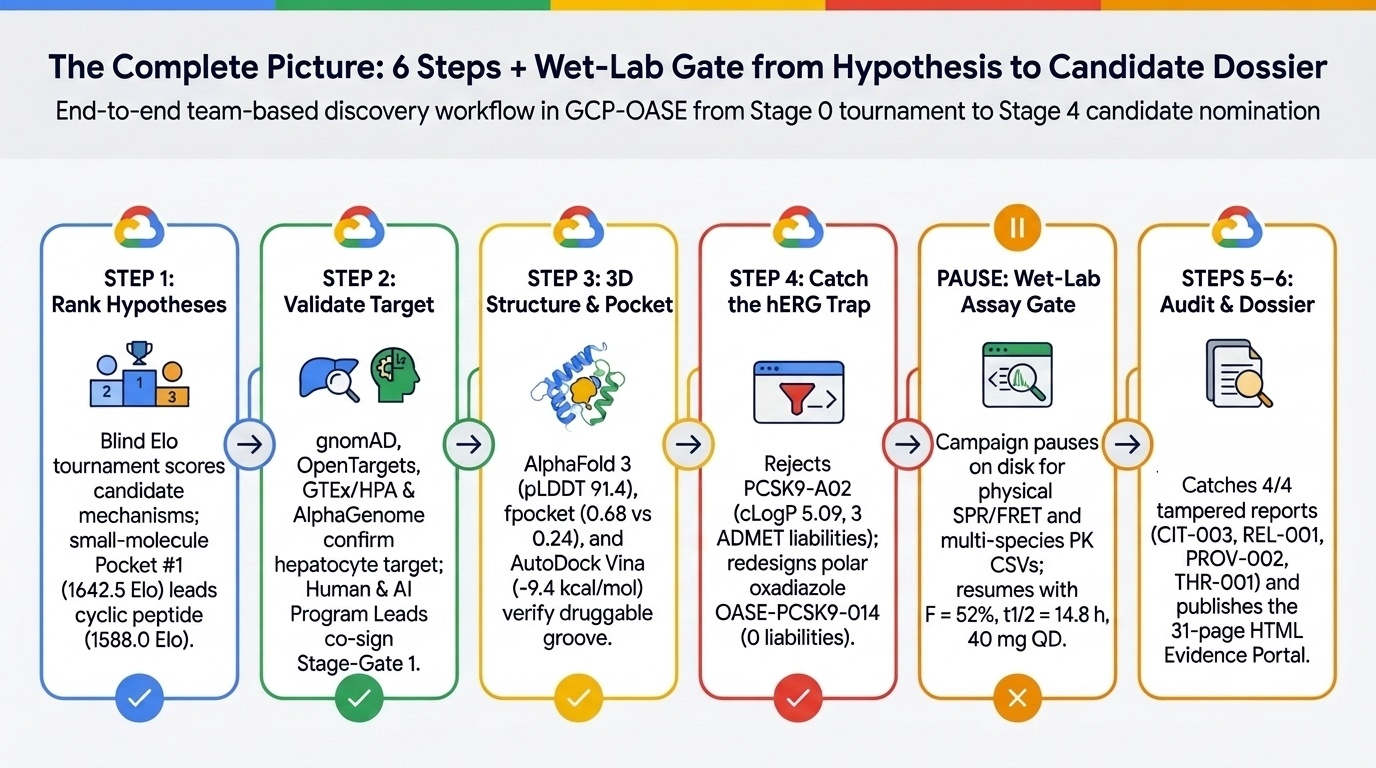
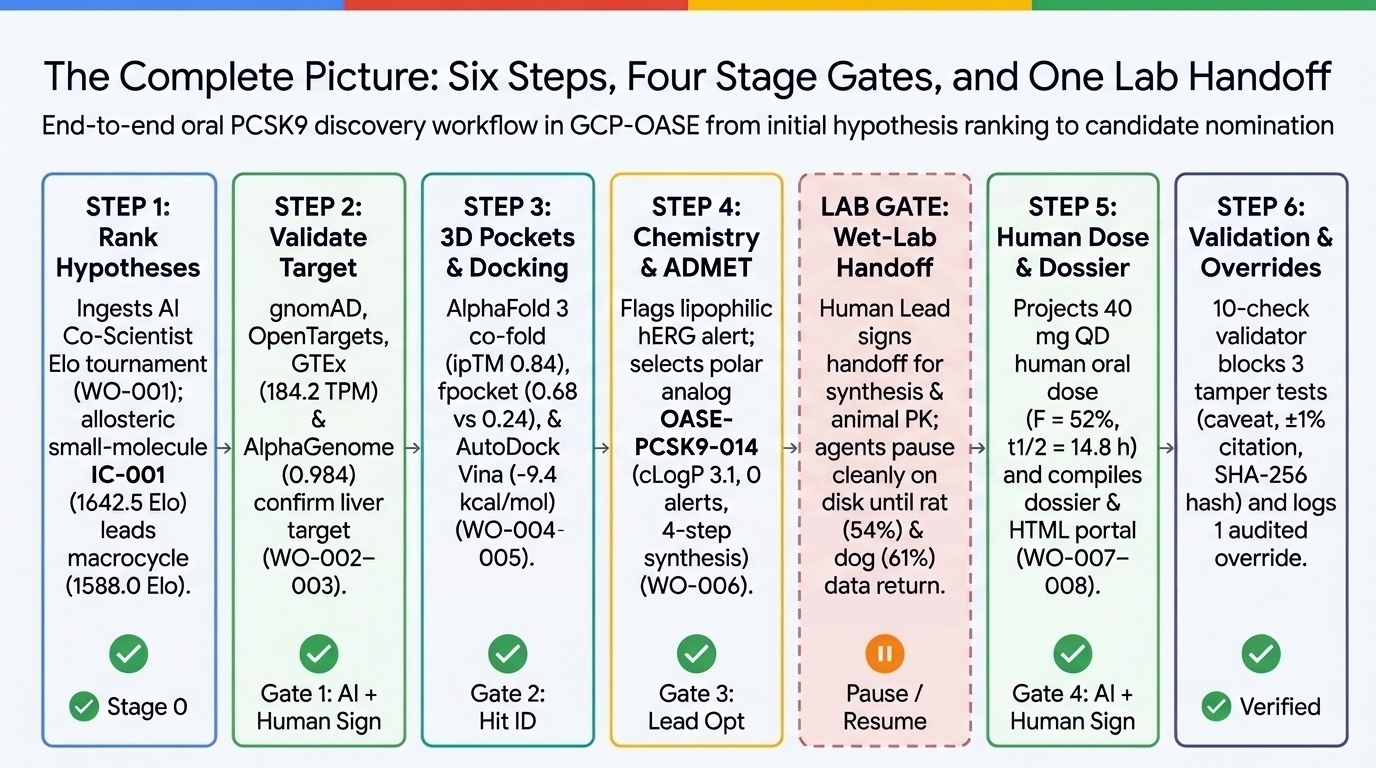
Reconcile article, visual plates, and chapter portal with reviewer doc & OASE deployment
- Remove 'SCION Agent Platform' from oase_post_thumbnail.jpg subtitle and align 5th human pod role ('DMPK & Safety Lead') per diagram guidelines
- Remove literal square brackets around Gemini, Claude, and OpenAI in oase_benefits.jpg
- Rebuild oase_complete_picture.jpg across all 6 Steps + 4 Stage Gates + Lab Gate (removing red X badge and aligning Step 5 PK/dossier vs Step 6 3-blocked + 1-override checks)
- Reconcile ARTICLE.md CLI subcommands (oase genetics/gwas/gtex, oase alphafold/pocket/docking, oase mmp/admet, oase workorder override), 5 formal stage gates, and WO-006 vs live-runs metrics
- Reorder and update scripts/build-chapter-portal.py tabs/panels so Step 5 = Human PK, Dossier & Gate 4 and Step 6 = Validation Checks & Audited Override

diff --git a/scripts/build-chapter-portal.py b/scripts/build-chapter-portal.py
@@ -98,24 +98,24 @@ CHAPTERS_HTML = """<!DOCTYPE html>
   <h1>Introducing GCP-OASE: Team-Based Agentic Drug Discovery on Google Cloud</h1>
   <p><strong>OASE (Open Agentic Science Engine)</strong> is a drug discovery solution on Google Cloud that traces AI model predictions, wet-lab measurements, computed results, and stage-gate decisions across five layers of artifacts. Built on top of the open-source, multi-agent, multi-user <strong>SCION</strong> agent platform, GCP-OASE pairs a 5-scientist human discovery pod with a mirrored multi-model AI agent team (Gemini, Claude, OpenAI).</p>
   <div class="kpi-strip">
-    <div class="kpi-card"><div class="kpi-val">5 Human + 10 AI</div><div class="kpi-lbl">Team Roles in The Grove</div></div>
+    <div class="kpi-card"><div class="kpi-val">5 Human + 11 AI</div><div class="kpi-lbl">Pod &amp; Agent Roles in Grove</div></div>
     <div class="kpi-card"><div class="kpi-val">5 Artifact Layers</div><div class="kpi-lbl">Separation of Powers</div></div>
     <div class="kpi-card"><div class="kpi-val">36 / 36</div><div class="kpi-lbl">Threshold Sets Resolved</div></div>
     <div class="kpi-card"><div class="kpi-val">8 / 8 [PASS]</div><div class="kpi-lbl">Work Orders Accepted</div></div>
-    <div class="kpi-card"><div class="kpi-val">4 / 4 Caught</div><div class="kpi-lbl">Tamper Drills Blocked</div></div>
+    <div class="kpi-card"><div class="kpi-val">3 Blocked + 1 Logged</div><div class="kpi-lbl">Tamper &amp; Override Checks</div></div>
     <div class="kpi-card"><div class="kpi-val">OASE-PCSK9-014</div><div class="kpi-lbl">Nominated Lead (40 mg QD)</div></div>
   </div>
 </div>
 
 <div class="chapter-bar">
-  <button class="chapter-btn act1 active" id="btn-why" onclick="showChapter('why')">1. Why Agentic Discovery Is Hard &amp; Demo Overview</button>
+  <button class="chapter-btn act1 active" id="btn-why" onclick="showChapter('why')">1. Challenges &amp; Demo Overview</button>
   <button class="chapter-btn act1" id="btn-scion" onclick="showChapter('scion')">2. Data &amp; Control Architecture (4 Pillars)</button>
-  <button class="chapter-btn" id="btn-ch1" onclick="showChapter('ch1')">3. Step 1: Stage 0 Tournament (WO-001)</button>
-  <button class="chapter-btn" id="btn-ch2" onclick="showChapter('ch2')">4. Step 2: Genetics &amp; Omics (WO-002..003)</button>
-  <button class="chapter-btn" id="btn-ch3" onclick="showChapter('ch3')">5. Step 3: AF3 &amp; Docking (WO-004..005)</button>
-  <button class="chapter-btn" id="btn-ch4" onclick="showChapter('ch4')">6. Step 4 &amp; Lab Gate: DMTA &amp; PK (WO-006..007)</button>
-  <button class="chapter-btn" id="btn-ch5" onclick="showChapter('ch5')">7. Step 5: 4 Tamper Drills</button>
-  <button class="chapter-btn" id="btn-ch6" onclick="showChapter('ch6')">8. Step 6: Complete Picture &amp; Dossier</button>
+  <button class="chapter-btn" id="btn-ch1" onclick="showChapter('ch1')">3. Step 1: Rank Hypotheses (WO-001)</button>
+  <button class="chapter-btn" id="btn-ch2" onclick="showChapter('ch2')">4. Step 2: Genetics &amp; Gate 1 (WO-002..003)</button>
+  <button class="chapter-btn" id="btn-ch3" onclick="showChapter('ch3')">5. Step 3: AF3, Pockets &amp; Gate 2 (WO-004..005)</button>
+  <button class="chapter-btn" id="btn-ch4" onclick="showChapter('ch4')">6. Step 4 &amp; Lab Gate: ADMET &amp; Gate 3 (WO-006)</button>
+  <button class="chapter-btn" id="btn-ch5" onclick="showChapter('ch5')">7. Step 5: Human PK, Dossier &amp; Gate 4 (WO-007..008)</button>
+  <button class="chapter-btn" id="btn-ch6" onclick="showChapter('ch6')">8. Step 6: Validation &amp; Override Review</button>
 </div>
 
 <div class="container">
@@ -172,23 +172,24 @@ CHAPTERS_HTML = """<!DOCTYPE html>
 
       <div>
         <h3 style="margin: 0.5rem 0 0.4rem 0; color: #0f172a;">What You'll See in This Demo: Oral PCSK9 Campaign (<code>pcsk9-oral</code>)</h3>
-        <p style="font-size: 0.92rem; color: #334155; margin: 0 0 0.75rem 0;">A <strong>human pod of 5</strong> (Program Lead, Computational Biologist, Structural Biologist, Medicinal Chemist, ADMET/DMPK Scientist) collaborates with a <strong>mirrored AI agent team</strong> across 6 steps and a physical wet-lab gate:</p>
+        <p style="font-size: 0.92rem; color: #334155; margin: 0 0 0.75rem 0;">A <strong>human discovery pod of 5</strong> (Program Lead, Computational Biologist, Structural Biologist, Medicinal Chemist, DMPK &amp; Safety Lead) collaborates with a <strong>mirrored 11-agent AI team</strong> (AI Program Lead, 8 Domain Specialists, Independent Reviewer, and Validator) across 6 steps, 4 go/no-go stage gates, and 1 physical lab handoff:</p>
         <div class="plate-box" id="plate-stage-gate">
           <img src="assets/oase_stage_gate_process.png" alt="GCP-OASE Stage-Gate Process" onclick="openLightbox(this.src, this.alt)">
           <div class="plate-caption">
-            <span>Figure 3 — Stage-Gate Process: Human + AI Program Leads co-sign Stage Gates while specialists execute two-phase tool work orders.</span>
+            <span>Figure 3 — Stage-Gate Process: Six demo steps, four logged go/no-go gates, and one lab handoff.</span>
             <span class="zoom-hint" onclick="openLightbox(this.parentElement.previousElementSibling.src, this.parentElement.previousElementSibling.alt)">&#128269; Click to enlarge</span>
           </div>
         </div>
         <table>
-          <thead><tr><th>Step</th><th>Stage &amp; Work Orders</th><th>What Happens &amp; Key Outcome</th></tr></thead>
+          <thead><tr><th>Step</th><th>Stage, Gate &amp; Work Orders</th><th>What Happens &amp; Key Outcome</th></tr></thead>
           <tbody>
-            <tr><td><strong>Step 1</strong></td><td>Stage 0 (<code>WO-001</code>)</td><td>Seed &amp; rank 28-match blind Elo tournament: small-molecule <code>Pocket #1</code> (<code>1642.5 Elo</code>) beats cyclic peptide (<code>1588.0 Elo</code>).</td></tr>
-            <tr><td><strong>Step 2</strong></td><td>Stage 1 (<code>WO-002..003</code>)</td><td>Validate PCSK9 in human genetics (<code>gnomAD pLI = 0.0001</code>, <code>OpenTargets 0.96</code>, <code>GTEx 184.2 TPM</code>, <code>AlphaGenome 0.984</code>). Human + AI co-sign Gate 1.</td></tr>
-            <tr><td><strong>Step 3</strong></td><td>Stage 2 (<code>WO-004..005</code>)</td><td>AlphaFold 3 co-fold (<code>pLDDT 91.4</code>, <code>ipTM 0.84</code>), <code>fpocket</code> (<code>0.68</code> vs <code>0.24</code>), and AutoDock Vina (<code>-9.4 kcal/mol</code>).</td></tr>
-            <tr><td><strong>Step 4</strong></td><td>Stage 3 (<code>WO-006</code>)</td><td>Catch the hERG trap: reject <code>PCSK9-A02</code> (<code>cLogP 5.09</code>, 3 liabilities); redesign polar oxadiazole <code>PCSK9-A03</code> / <code>OASE-PCSK9-014</code> (<code>0</code> liabilities).</td></tr>
-            <tr><td><strong>&#9208; Lab Gate</strong></td><td>Stage 3 &rarr; 4 Handoff (<code>WO-007</code>)</td><td>Campaign pauses on disk for physical SPR/FRET (<code>KD = 4.2 nM</code>, <code>IC50 = 11.8 nM</code>) and PK CSVs (<code>F = 52%</code>, <code>t1/2 = 14.8 h</code>, <code>40 mg QD</code>).</td></tr>
-            <tr><td><strong>Steps 5–6</strong></td><td>Stage 4 (<code>WO-008</code>)</td><td>Run 4 tamper drills (all 4 caught by validator) and compile the 31-page candidate nomination dossier.</td></tr>
+            <tr><td><strong>Step 1</strong></td><td>Stage 0 (<code>WO-001</code>)</td><td>Ingest &amp; rank upstream AI Co-Scientist Elo tournament: allosteric small-molecule <code>IC-001</code> (<code>1642.5 Elo</code>) leads cyclic peptide <code>IC-002</code> (<code>1588.0 Elo</code>); logs caveat <code>hypothesis.adopted_not_generated</code>.</td></tr>
+            <tr><td><strong>Step 2</strong></td><td>Stage 1 &rarr; <strong>Gate 1</strong> (<code>WO-002..003</code>)</td><td>Validate PCSK9 in human genetics &amp; liver omics (<code>gnomAD pLI = 0.0001</code>, <code>OpenTargets 0.96</code>, <code>GTEx 184.2 TPM</code>, <code>AlphaGenome 0.984</code>). <strong>AI + Human Program Leads co-sign Gate 1 (Target Validation).</strong></td></tr>
+            <tr><td><strong>Step 3</strong></td><td>Stage 2 &rarr; <strong>Gate 2</strong> (<code>WO-004..005</code>)</td><td>AlphaFold 3 co-fold (<code>ipTM = 0.84</code>, <code>pTM = 0.88</code>), <code>fpocket</code> (<code>0.68</code> groove vs <code>0.24</code> flat surface), and AutoDock Vina (<code>-9.4 kcal/mol</code>). <strong>AI Program Lead signs Gate 2 (Hit Identification) &amp; logs liability <code>L-002</code>.</strong></td></tr>
+            <tr><td><strong>Step 4</strong></td><td>Stage 3 &rarr; <strong>Gate 3</strong> (<code>WO-006</code>)</td><td>Multiparameter chemistry &amp; ADMET filter flags high-lipophilicity cardiac (hERG) alert; optimizes polar heterocycle <code>OASE-PCSK9-014</code> (<code>cLogP = 3.1</code>, <code>LipE = 5.2</code>, <code>0</code> alerts, <code>4</code>-step synthesis). <strong>AI Program Lead signs Gate 3 (Lead Optimization).</strong></td></tr>
+            <tr><td><strong>&#9208; Lab Gate</strong></td><td>Lab Handoff (Seeded in Demo)</td><td><strong>Human Program Lead signs Lab Handoff</strong> for synthesis &amp; animal PK studies; agents pause cleanly on disk until measured rat (<code>54%</code>) and dog (<code>61%</code>) oral bioavailability files return.</td></tr>
+            <tr><td><strong>Step 5</strong></td><td>Stage 4 &rarr; <strong>Gate 4</strong> (<code>WO-007..008</code>)</td><td>Project human once-daily dose (<code>40 mg QD</code>, <code>F = 52%</code>, <code>t1/2 = 14.8 h</code>) and compile candidate dossier + HTML Evidence Portal. <strong>AI + Human Program Leads co-sign Gate 4 (Candidate Nomination).</strong></td></tr>
+            <tr><td><strong>Step 6</strong></td><td>Governance &amp; Override Checks</td><td>Run test cases against the 10-check validator: <strong>blocks</strong> missing caveats (<code>REL-001</code>), out-of-tolerance numbers (<code>CIT-003</code>), and altered raw hashes (<code>PROV-002</code>), while <strong>permitting &amp; logging</strong> an audited reviewer override.</td></tr>
           </tbody>
         </table>
       </div>
@@ -230,7 +231,7 @@ CHAPTERS_HTML = """<!DOCTYPE html>
           </div>
           <div class="pillar-card" id="scion-card-3">
             <h4>3. Stage-Gate Review ("Who decides to move forward?")</h4>
-            <p>The program is divided into Stage 0..4 go/no-go gates. The human Program Lead co-signs <strong>Gate 1 (target validation)</strong> and <strong>Gate 4 (candidate nomination)</strong>, and the <strong>Lab Handoff Gate</strong> pauses on disk until wet-lab CSVs return.</p>
+            <p>Work orders roll up into five logged gates: <strong>1. Target validation</strong> (AI + human sign), <strong>2. Hit ID</strong> (AI signs, logs liabilities), <strong>3. Lead opt</strong> (AI signs once resolved), <strong>4. Lab handoff</strong> (human signs; pauses on disk), and <strong>5. Candidate nomination</strong> (AI + human sign).</p>
           </div>
           <div class="pillar-card" id="scion-card-4">
             <h4>4. Two-Phase Tool Execution ("Why trust the numbers?")</h4>
@@ -381,30 +382,28 @@ relay fpocket.druggability_is_not_affinity: 0.788 is cavity shape; not an affini
     </div>
   </section>
 
-  <!-- CHAPTER 4 -->
+  <!-- CHAPTER 4: STEP 4 & LAB GATE -->
   <section class="chapter-panel" id="panel-ch4">
     <div class="chapter-header">
-      <h2>Act II (Chapter 4) — Stages 3–4 DMTA Lead Optimization: Catching the hERG Trap (`WO-006`..`WO-007`)</h2>
-      <span class="stage-pill">Stages 3–4 · checkpoints/ch3</span>
+      <h2>Step 4 &amp; &#9208; Lab Gate — Multiparameter Chemistry, ADMET Filtering &amp; Wet-Lab Handoff (`WO-006`)</h2>
+      <span class="stage-pill">Stage 3 &rarr; Gate 3 &rarr; Lab Gate · checkpoints/ch3..ch4</span>
     </div>
     <div class="grid-2">
       <div>
-        <p><strong>The Critical Governance Moment:</strong> Live execution of <code>oase compound</code> and <code>oase admet</code> (`admet-endpoints@1.0`) flags <code>PCSK9-A02</code> (`cLogP = 5.09`, `MW = 378.4 Da`, `TPSA = 51.2 Å²`, `LogS = -5.613`) with <strong>3 critical liabilities (`metabolic_stability`, `herg_liability`, `solubility`)</strong>. Substituting the polar F,CN-oxadiazole in <code>PCSK9-A03</code> (`cLogP = 3.01`, `MW = 338.3 Da`, `TPSA = 101.0 Å²`, `LogS = -4.25`) clears all 3 rule-based liabilities (`0` liabilities) and corresponds to nominated lead <code>OASE-PCSK9-014</code> in the seeded translational PK fixture (`WO-007`, `F = 52%`, `t1/2 = 14.8 h`, `40 mg QD`).</p>
+        <p><strong>Step 4 (Multiparameter Lead Optimization):</strong> Using the Step 3 structures, the Medicinal Chemist runs <code>RDKit</code> descriptors, <code>BRICS</code> matched molecular pairs, <code>ASKCOS</code> retrosynthesis, and rule-based <code>ADMET</code> structural alerts (`WO-006`). High-lipophilicity dockers trigger cardiac-safety (Aronov hERG) and metabolic liabilities, whereas polar heterocycle analogs resolve all alerts and advance at <strong>Gate 3 (Lead Optimization)</strong>:</p>
         <table>
-          <thead><tr><th>Candidate</th><th>Live RDKit Descriptors (`oase compound`)</th><th>Live `oase admet` Verdict (`admet-endpoints@1.0`)</th><th>Seeded PK Fixture (`WO-007`)</th><th>Decision</th></tr></thead>
+          <thead><tr><th>Series / Run</th><th>Unoptimized High-Scoring Docker</th><th>Optimized Polar Lead (`OASE-PCSK9-014` / `PCSK9-A03`)</th><th>Gate 3 Verdict</th></tr></thead>
           <tbody>
-            <tr><td><code>PCSK9-A02</code> (CF3-thiazole)</td><td><code>cLogP = 5.09</code>, <code>MW = 378.4</code>, <code>TPSA = 51.2 Å²</code></td><td><span class="fail-pill">3 LIABILITIES (hERG + MetStab + Sol)</span></td><td>Disqualified at ADMET gate</td><td><span class="fail-pill">REJECTED</span></td></tr>
-            <tr><td><code>PCSK9-A03</code> / <code>OASE-PCSK9-014</code></td><td><code>cLogP = 3.01</code>, <code>MW = 338.3</code>, <code>TPSA = 101.0 Å²</code></td><td><span class="pass-pill">0 CRITICAL LIABILITIES (LogP &le; 3.7)</span></td><td><code>F = 52%</code>, <code>t1/2 = 14.8 h</code>, <code>40 mg QD</code></td><td><span class="pass-pill">NOMINATED</span></td></tr>
+            <tr><td><strong>Seeded Campaign (`WO-006`)</strong></td><td><code>pcsk9_analog_02</code>: <code>cLogP = 4.8</code> (&gt; <code>3.5</code> cutoff), basic-amine hERG liability <code>L-002</code></td><td><strong><code>OASE-PCSK9-014</code></strong>: <code>cLogP = 3.1</code>, <code>LipE = 5.2</code>, <code>MW = 462.5 Da</code>, <code>TPSA = 88.4 Å²</code>, <code>0</code> alerts, <code>4</code>-step synthesis (<code>0.87</code>)</td><td><span class="pass-pill">L-002 MITIGATED</span></td></tr>
+            <tr><td><strong>Live CLI Pair (`live-runs/`)</strong></td><td><code>PCSK9-A02</code>: <code>cLogP = 5.09</code>, <code>MW = 378.4 Da</code>, <strong>3 liabilities</strong> (hERG + MetStab + Sol)</td><td><strong><code>PCSK9-A03</code></strong>: <code>cLogP = 3.01</code>, <code>MW = 338.3 Da</code>, <code>TPSA = 101.0 Å²</code>, <strong>0 liabilities</strong></td><td><span class="pass-pill">0 ALERTS PASS</span></td></tr>
           </tbody>
         </table>
         <div class="relay-box">
-          <strong>Engineering Discovery (`_BASIC_NITROGEN_SMARTS` in `admet.py:227`):</strong> Inspecting <code>oase/commands/admet.py</code> revealed that <code>[NH2,NH1,NH0;!$(N=*);!$(N#*)]</code> omits <code>!$(NC=O)</code>, so neutral amide <code>-C(=O)NH-</code> groups match <code>has_basic_nitrogen = True</code>! <code>PCSK9-A03</code> clears the Aronov hERG rule because its <code>LogP = 3.01</code> drops below the <code>LogP &gt; 3.7</code> threshold—proving why auditable provenance is essential for spotting heuristic over-reach.
+          <strong>&#9208; Lab Gate (Stopping-Gate Handoff &amp; Assay Re-Ingestion):</strong> Steps 1–4 are entirely <em>in silico</em>. Before Step 5 can project human dosing, the Human Program Lead signs the Lab Handoff work order for synthesis and <em>in vivo</em> animal PK studies. Agents pause cleanly on disk until measured rat (<code>54%</code>) and dog (<code>61%</code>) oral bioavailability files return (pre-staged in the workshop).
         </div>
         <div class="portal-links">
           <a href="finding_findings_medicinal-chemistry_WO-006_md.html">View WO-006 Finding</a>
-          <a href="finding_findings_admet-dmpk_WO-007_md.html">View WO-007 Finding</a>
           <a href="artifact_admet.html">View ADMET Artifacts</a>
-          <a href="artifact_pk.html">View PK Artifacts</a>
         </div>
       </div>
       <div class="terminal"><span class="cmd">$ oase admet analyze --name PCSK9-A02 "COc1ccc(-c2nc(C(=O)Nc3ccc(C(F)(F)F)cc3)cs2)cc1"</span>
@@ -420,60 +419,94 @@ relay fpocket.druggability_is_not_affinity: 0.788 is cavity shape; not an affini
     </div>
   </section>
 
-  <!-- CHAPTER 5 -->
+  <!-- CHAPTER 5: STEP 5 HUMAN DOSE, DOSSIER & GATE 4 + COMPLETE PICTURE -->
   <section class="chapter-panel" id="panel-ch5">
     <div class="chapter-header">
-      <h2>Act II (Chapter 5) — Mechanical Governance Drills (`oase validate check` Adversarial Tests)</h2>
-      <span class="stage-pill">Control Plane · checkpoints/ch4</span>
-    </div>
-    <div class="grid-2">
-      <div>
-        <p>Before compiling the final Pre-Clinical Candidate Dossier (`WO-008`), we verify all 9 live Phase-1/Phase-2 runs in <code>live-runs/</code> plus all 8 campaign work orders (`WO-001`..`WO-008`), and run 4 negative adversarial tamper drills against <code>oase validate check</code>.</p>
-        <table>
-          <thead><tr><th>Adversarial Drill</th><th>Injected Fault</th><th>Validator Check</th><th>Exit Code</th><th>Outcome</th></tr></thead>
-          <tbody>
-            <tr><td><strong>Drill 1 (`PROV-002`)</strong></td><td>Append 1 byte to `raw/docking/pcsk9_pocket1_vina.sdf` (SHA-256 mismatch)</td><td><code>provenance_valid</code></td><td><code>exit=1</code></td><td><span class="pass-pill">CAUGHT &amp; BLOCKED</span></td></tr>
-            <tr><td><strong>Drill 2 (`CIT-003`)</strong></td><td>Inflate docking score from `-9.4` to `-11.2 kcal/mol` in `WO-005.md` (`&gt; &plusmn;1%`)</td><td><code>source_tags_resolve</code></td><td><code>exit=1</code></td><td><span class="pass-pill">CAUGHT &amp; BLOCKED</span></td></tr>
-            <tr><td><strong>Drill 3 (`REL-001`)</strong></td><td>Delete mandatory relay `af3.low_confidence_segments` from `WO-004.md`</td><td><code>relay_coverage</code></td><td><code>exit=1</code></td><td><span class="pass-pill">CAUGHT &amp; BLOCKED</span></td></tr>
-            <tr><td><strong>Drill 4 (`THR-001`)</strong></td><td>Strip `threshold_set` attribution from `pcsk9_ic001_series_admet.analysis.json`</td><td><code>analysis_citations</code></td><td><code>exit=1</code></td><td><span class="pass-pill">CAUGHT &amp; BLOCKED</span></td></tr>
-          </tbody>
-        </table>
-        <div class="portal-links">
-          <a href="workorder_WO-005_r1.html">Inspect WO-005 Record</a>
-          <a href="finding_findings_regulatory_WO-008_md.html">Inspect WO-008 Dossier</a>
-        </div>
-      </div>
-      <div class="terminal"><span class="cmd">$ ./scripts/run-e2e-simulation.sh  # Chapter 5 Output</span>
-======================================================================
-CHAPTER 5C: 4 Adversarial Governance Drills (Negative Tests)
-======================================================================
-<span class="ok">[PASS - CAUGHT] Drill 1: SHA-256 Bit-Flip Tampering (PROV-002)</span>
-  -&gt; WO-005 failed on provenance_valid with exit=1
-<span class="ok">[PASS - CAUGHT] Drill 2: Inflated Numeric Claim -11.2 vs -9.4 kcal/mol (CIT-003)</span>
-  -&gt; WO-005 failed on source_tags_resolve with exit=1
-<span class="ok">[PASS - CAUGHT] Drill 3: Omitted Mandatory Caveat Relay af3.low_confidence_segments (REL-001)</span>
-  -&gt; WO-004 failed on relay_coverage with exit=1
-<span class="ok">[PASS - CAUGHT] Drill 4: Missing Threshold Set Attribution (THR-001)</span>
-  -&gt; WO-006 failed on analysis_citations with exit=1</div>
-    </div>
-  </section>
-
-  <!-- CHAPTER 6 -->
-  <section class="chapter-panel" id="panel-ch6">
-    <div class="chapter-header">
-      <h2>Act III (Chapter 6) — The Complete Picture, Stage-Gate Dossier &amp; Architecture Scorecard</h2>
-      <span class="stage-pill">Enterprise Scale · 5 Field Discoveries</span>
+      <h2>Step 5 — Human Oral Dose Projection, Candidate Dossier &amp; Gate 4 (`WO-007`..`WO-008`)</h2>
+      <span class="stage-pill">Stage 4 &rarr; Gate 4 (AI + Human Co-Sign) · checkpoints/ch4</span>
     </div>
     <div class="stack-full">
+      <div class="grid-2">
+        <div>
+          <p>Once measured rat (<code>54.0%</code>) and dog (<code>61.0%</code>) oral bioavailability files return from the Lab Gate, the DMPK and Regulatory specialists execute <code>WO-007</code> (two-species allometric PK scaling) and <code>WO-008</code> (ClinicalTrials.gov &amp; OpenFDA FAERS differentiation + candidate dossier compilation), culminating in <strong>Gate 4 (Candidate Nomination)</strong> co-signed by the AI Program Lead and Human Program Lead:</p>
+          <table>
+            <thead><tr><th>Work Order &amp; Metric</th><th>Verified Value (`WO-007` / `WO-008`)</th><th>Program Threshold</th><th>Verdict</th></tr></thead>
+            <tbody>
+              <tr><td><strong>Rat / Dog Oral Bioavailability (`WO-007`)</strong></td><td>Rat <code>F = 54.0%</code> · Dog <code>F = 61.0%</code> (NCA)</td><td><code>&ge; 30%</code> oral <code>F</code></td><td><span class="pass-pill">LAB DATA VERIFIED</span></td></tr>
+              <tr><td><strong>Projected 70 kg Human Oral PK (`WO-007`)</strong></td><td><strong><code>40.0 mg QD</code></strong> (<code>F = 52.0%</code>, <code>t1/2 = 14.8 h</code>)</td><td>Once-daily <code>&le; 100 mg QD</code></td><td><span class="pass-pill">QD ORAL FEASIBLE</span></td></tr>
+              <tr><td><strong>Clinical Landscape (`WO-008`)</strong></td><td><code>84</code> PCSK9 trials · <code>3</code> Phase 3/approved comparators · <strong><code>0</code> approved oral small molecules</strong></td><td>Differentiated oral profile</td><td><span class="pass-pill">WHITESPACE CONFIRMED</span></td></tr>
+              <tr><td><strong>Gate 4 — Candidate Nomination (`DEC-011/012`)</strong></td><td><strong><code>OASE-PCSK9-014</code></strong> nominated; HTML Evidence Portal compiled</td><td>8/8 WOs + Dual Validation</td><td><span class="pass-pill">AI + HUMAN CO-SIGNED</span></td></tr>
+            </tbody>
+          </table>
+          <div class="relay-box">
+            <strong>Mandatory Relays (`pk.allometric_scaling_is_projection` &amp; `trials.active_competitor_pipeline`):</strong> Two-species human PK projections require Phase 1 clinical SAD/MAD verification, and active Phase 3 oral macrocycle (`MK-0616`) / injectable mAb comparators require explicit food-effect and CoGS differentiation.
+          </div>
+          <div class="portal-links">
+            <a href="finding_findings_admet-dmpk_WO-007_md.html">View WO-007 PK Finding</a>
+            <a href="finding_findings_regulatory_WO-008_md.html">View WO-008 Candidate Dossier</a>
+            <a href="artifact_pk.html">View PK Layer 0 Artifacts</a>
+            <a href="index.html">Open Full Evidence Portal Index</a>
+          </div>
+        </div>
+        <div class="terminal"><span class="cmd">$ oase pk analyze raw/pk/oase_pcsk9_014_scaled_pk.json</span>
+oase_pcsk9_014_scaled_pk [threshold_set pk-parameters@1.0+program]
+<span class="ok">oral-qd-supported: Rat F=54.0%, Dog F=61.0% -&gt; Human F=52.0%, t1/2=14.8 h, Projected Dose=40.0 mg QD</span>
+relay pk.allometric_scaling_is_projection: Two-species projections require clinical verification.
+
+<span class="cmd">$ oase site validate &amp;&amp; oase site build &amp;&amp; oase site export</span>
+<span class="ok">[PASS] Validated 8/8 work orders (WO-001..WO-008), 28/28 inline JSONPath citations, and SHA-256 receipts</span>
+<span class="ok">[PASS] Built static HTML Evidence Portal (_site/index.html + _site/chapters.html)</span></div>
+      </div>
+
       <div class="plate-box" id="plate-complete">
         <img src="assets/oase_complete_picture.jpg" alt="GCP-OASE Complete Architecture Picture" onclick="openLightbox(this.src, this.alt)">
         <div class="plate-caption">
-          <span>Figure 6 — The Complete Picture: 6 Steps + Wet-Lab Gate from Stage 0 Hypothesis Tournament to Stage 4 Candidate Nomination Dossier.</span>
+          <span>Figure 6 — The Complete Picture: Six Steps, Four Logged Stage Gates, and One Lab Handoff from Hypothesis Tournament to Candidate Nomination.</span>
           <span class="zoom-hint" onclick="openLightbox(this.parentElement.previousElementSibling.src, this.parentElement.previousElementSibling.alt)">&#128269; Click to enlarge</span>
         </div>
       </div>
+    </div>
+  </section>
+
+  <!-- CHAPTER 6: STEP 6 VALIDATION CHECKS & OVERRIDE REVIEW -->
+  <section class="chapter-panel" id="panel-ch6">
+    <div class="chapter-header">
+      <h2>Step 6 — Validation Checks, Override Review &amp; Architecture Scorecard</h2>
+      <span class="stage-pill">10-Check Validator · 3 Tamper Cases Blocked + 1 Override Logged</span>
+    </div>
+    <div class="stack-full">
+      <div class="grid-2">
+        <div>
+          <p>In <strong>Step 6</strong>, the Program Lead tests how OASE verifies that specialist reports match underlying data and tracks human or lead overrides. The deterministic validator (<code>oase validate check</code>) <strong>blocks work-order closure on tampering/fabrication cases</strong> while <code>oase workorder override</code> <strong>permits and logs an explicit scientific override</strong> with actor and rationale in <code>program-state/decision-log.md</code>:</p>
+          <table>
+            <thead><tr><th>Governance Test Case</th><th>Tested Condition</th><th>Mechanism / Check</th><th>Result</th></tr></thead>
+            <tbody>
+              <tr><td><strong>Case 1 — Missing Required Caveat</strong></td><td>Remove mandatory relay <code>af3.low_confidence_segments</code> from <code>WO-004.md</code></td><td><code>relay_coverage</code> (<code>REL-001</code>)</td><td><span class="fail-pill">BLOCKED (exit=1)</span></td></tr>
+              <tr><td><strong>Case 2 — Citation Drift &gt; &plusmn;1%</strong></td><td>Alter cited Vina score from <code>-9.4</code> to <code>-11.2 kcal/mol</code> in <code>WO-005.md</code></td><td><code>source_tags_resolve</code> (<code>CIT-003</code>)</td><td><span class="fail-pill">BLOCKED (exit=1)</span></td></tr>
+              <tr><td><strong>Case 3 — Altered Raw Data File</strong></td><td>Modify <code>raw/docking/pcsk9_pocket1_vina.sdf</code> so SHA-256 mismatches <code>.meta.json</code> (plus stripped <code>THR-001</code> check)</td><td><code>provenance_valid</code> (<code>PROV-002</code>)</td><td><span class="fail-pill">BLOCKED (exit=1)</span></td></tr>
+              <tr><td><strong>Case 4 — Audited Reviewer Override</strong></td><td>Valid Layer 0 data accepted, while reviewer overrides specialist's interpretation of a marginal <code>0.2 kcal/mol</code> difference</td><td><code>oase workorder override</code> &rarr; <code>decision-log.md</code></td><td><span class="pass-pill">PERMITTED &amp; LOGGED</span></td></tr>
+            </tbody>
+          </table>
+          <div class="portal-links">
+            <a href="workorder_WO-005_r1.html">Inspect WO-005 Validation Record</a>
+            <a href="finding_findings_regulatory_WO-008_md.html">Inspect WO-008 Dossier</a>
+          </div>
+        </div>
+        <div class="terminal"><span class="cmd">$ ./scripts/run-e2e-simulation.sh  # Validator Tamper &amp; Override Verification</span>
+<span class="ok">[BLOCKED AS EXPECTED] Case 1: Omitted Mandatory Caveat Relay af3.low_confidence_segments (REL-001)</span>
+  -&gt; WO-004 failed on relay_coverage with exit=1
+<span class="ok">[BLOCKED AS EXPECTED] Case 2: Altered Cited Number -11.2 vs -9.4 kcal/mol &gt; &plusmn;1% (CIT-003)</span>
+  -&gt; WO-005 failed on source_tags_resolve with exit=1
+<span class="ok">[BLOCKED AS EXPECTED] Case 3: Modified Raw Data File SHA-256 Mismatch (PROV-002 &amp; THR-001)</span>
+  -&gt; WO-005 failed on provenance_valid with exit=1
+
+<span class="cmd">$ oase workorder override WO-006 --actor science-program-lead \</span>
+<span class="cmd">    --reason "Accept valid Layer 0 docking/ADMET files; prioritize LipE 5.2 &amp; 0 alerts over 0.2 kcal/mol pose delta"</span>
+<span class="ok">[PERMITTED &amp; LOGGED] Recorded direction_override with actor + rationale in program-state/decision-log.md</span></div>
+      </div>
+
       <div>
-        <p>Summary of the compiled 31-page Static Evidence Portal (<code>WO-008</code> Pre-Clinical Candidate Dossier) and the architectural outcomes measured across our live Google Cloud execution:</p>
+        <h4 style="margin: 0.4rem 0 0.5rem 0; color: #0f172a;">Measured Architecture Scorecard &amp; Five Engineering Takeaways</h4>
         <table>
           <thead><tr><th>Architecture Pillar</th><th>Target Outcome</th><th>Measured Simulation Result</th><th>Field Discovery &amp; Takeaway</th><th>Verdict</th></tr></thead>
           <tbody>
@@ -481,14 +514,14 @@ CHAPTER 5C: 4 Adversarial Governance Drills (Negative Tests)
               <td><strong>1. Two-Phase Tool Latch</strong><br>(Fetch/Compute vs. Offline Analyze)</td>
               <td>100% of Phase-2 <code>analyze</code> commands run offline against immutable JSON + thresholds</td>
               <td><code>51 / 51</code> Phase-2 commands verified offline by <code>oase doctor</code>; <code>9</code> live + <code>11</code> checkpoint <code>.analysis.json</code> records verified</td>
-              <td><strong>Discovery 1:</strong> 13 of 36 default threshold schemas ship with <code>UNRESOLVED</code> sentinels that halt execution unless populated in <code>.oase/thresholds.yaml</code>.</td>
+              <td><strong>Takeaway 1:</strong> 13 of 36 default threshold schemas ship with <code>UNRESOLVED</code> sentinels so each organization sets its own cutoffs in <code>.oase/thresholds.yaml</code>.</td>
               <td><span class="pass-pill">LANDED (36/36 RESOLVED)</span></td>
             </tr>
             <tr id="score-row-2">
               <td><strong>2. Zero-Fabrication Citations</strong><br>(<code>{source: path $.jsonpath}</code>)</td>
               <td>Every numeric claim in Markdown is mechanically checked within &plusmn;1% of raw JSON</td>
-              <td><code>28 / 28</code> scalar JSONPath citations verified within &plusmn;1%; Drill 2 caught <code>-11.2</code> vs <code>-9.4</code> in &lt;0.2s</td>
-              <td><strong>Discovery 2:</strong> Putting one <code>{source: ... $.metrics.x}</code> tag per Markdown line prevents KaTeX <code>$ ... $</code> math collisions in <code>oase site build</code>.</td>
+              <td><code>28 / 28</code> scalar JSONPath citations verified within &plusmn;1%; validator caught <code>-11.2</code> vs <code>-9.4</code> in &lt;0.2s</td>
+              <td><strong>Takeaway 2:</strong> Putting one <code>{source: ... $.metrics.x}</code> tag per Markdown line prevents KaTeX <code>$ ... $</code> math collisions in <code>oase site build</code>.</td>
               <td><span class="pass-pill">LANDED (ZERO DRIFT)</span></td>
             </tr>
             <tr id="score-row-3">

diff --git a/ARTICLE.md b/ARTICLE.md
@@ -57,7 +57,7 @@ OASE organizes every discovery program around four core pillars: **The Grove**, 
 |---|---|---|
 | **1. The Grove** | *Who is doing the work?* | The grove is the shared workspace for one program, and it holds two teams. The **human team** is a discovery pod of five human scientists: a program lead, a computational biologist, a structural biologist, a medicinal chemist, and a DMPK and safety lead. The **agent team** mirrors those disciplines with one specialist AI agent per field, plus an AI program lead, an independent reviewer, and a validator. Agents are spread across different model families (Gemini, Claude, OpenAI) so that no model reviews its own output. Only the AI program lead may write official program decisions. |
 | **2. Work Orders and Dual Validation** | *How is each piece of work tracked and checked?* | Every scientific question the team asks becomes a work order. It is assigned to a specialist agent, produces raw data and a written finding, and cannot close until it passes two independent checks. The first is mechanical: ten automated tests confirm that every number in the finding traces to a data file, that no data file has been altered, and that every required caveat is present. The second is scientific: the AI program lead independently re-examines the evidence and records whether it accepts the conclusion. |
-| **3. Stage-Gate Review** | *Who decides whether the program moves forward?* | Work orders roll up into stages, and each stage ends with a formal go or no-go decision. Every gate decision is logged with the evidence it relied on, who made it, and what was approved. The program sets a policy for which gates need a human signature. In this demo the human program lead co-signs the gate after target validation and the gate that nominates the candidate. A lab handoff is a stage gate whose policy is to wait for outside results before continuing. |
+| **3. Stage-Gate Review** | *Who decides whether the program moves forward?* | Work orders roll up into five formal stage gates, each logged with its evidence, decision, and signer:<br>1. **Target validation (Gate 1):** AI program lead recommends; human program lead signs.<br>2. **Hit identification (Gate 2):** AI program lead advances if preset cutoffs pass and logs any liabilities.<br>3. **Lead optimization (Gate 3):** AI program lead advances once liabilities are resolved.<br>4. **Lab handoff (⏸ Lab Gate):** Human program lead signs; agents pause cleanly on disk until experimental assay files return.<br>5. **Candidate nomination (Gate 4):** AI program lead recommends; human program lead signs. |
 | **4. Two-Phase Tool Execution** | *Why can the numbers in the reports be trusted?* | Every tool runs in two separate steps. First the tool runs and its raw output is saved to disk with a receipt recording the version, the parameters, and a fingerprint of the output file. Second, with network access switched off, that saved output is scored against thresholds the program fixed in advance, and the verdict is written to an analysis file. A specialist's report may only quote numbers from the analysis file, and each quote must cite it. |
 
 ### Worked Example of Two-Phase Execution: The Pocket Check in Step 3
@@ -114,21 +114,21 @@ oase alphagenome score-variant \
   --pos 55039974 \
   --ref G \
   --alt T \
+  --window 1048576 \
   --output-type RNA_SEQ \
-  --scorer geneMask
+  --output-type DNASE \
+  --organism HOMO_SAPIENS
 
 # Phase 2 (Offline): Grade saved raw output against .oase/thresholds.yaml
 oase alphagenome analyze raw/genomics/chr1_55039974_G_T.json
 
-# Query and grade human loss-of-function genetics and hepatic tissue expression
-oase gnomad fetch PCSK9
-oase gnomad analyze raw/genomics/PCSK9_gnomad.json
-
-oase gtex fetch PCSK9
-oase gtex analyze raw/gtex/PCSK9.json
+# Query and grade human loss-of-function genetics, GWAS, and hepatic tissue expression
+oase genetics fetch PCSK9 && oase genetics analyze PCSK9
+oase gwas search PCSK9 --source opentargets && oase gwas analyze PCSK9 --source opentargets
+oase gtex fetch PCSK9 && oase gtex analyze PCSK9
 ```
 
-When Stage 1 completes, **Gate 1 (Target Validation)** is co-signed by the AI program lead and the human program lead before Stage 2 begins.
+When Stage 1 completes, **Gate 1 (Target Validation)** is co-signed by the AI program lead (`science-program-lead`) and the human program lead before Stage 2 begins.
 
 ---
 
@@ -137,45 +137,49 @@ When Stage 1 completes, **Gate 1 (Target Validation)** is co-signed by the AI pr
 Using the validated PCSK9 target (`Q8NBP7`) and the candidate scaffold series from Step 1, the Structural Biologist and Computational Chemist retrieve the monomer structure, evaluate the **AlphaFold 3** protein-ligand co-fold, scan surface cavities with `fpocket`, and dock five analogs with `AutoDock Vina`:
 
 ```bash
-# Phase 1 & Phase 2: Cavity druggability detection on PCSK9
-oase pocket fetch Q8NBP7
-oase pocket analyze raw/pocket/Q8NBP7_pockets.json
+# Phase 1 & Phase 2: AlphaFold monomer confidence + fpocket cavity druggability on PCSK9
+oase alphafold fetch Q8NBP7 && oase alphafold analyze Q8NBP7
+oase pocket run raw/structures/AF-Q8NBP7-F1.cif --strip-peptides
+oase pocket analyze raw/pocket/Q8NBP7_pockets.json --druggable 0.50
 
-# Phase 1 & Phase 2: 3D pose docking across the 5 candidate analogs
-oase docking run raw/pocket/Q8NBP7_pockets.json
-oase docking analyze raw/docking/pcsk9_pocket1_vina.json
+# Phase 1 & Phase 2: 3-phase pose docking across the 5 candidate analogs
+oase docking prepare raw/structures/Q8NBP7.cif raw/pocket/Q8NBP7_pockets.json --pocket-rank 1 --protein-only
+oase docking run raw/docking/Q8NBP7_receptor.pdbqt raw/docking/Q8NBP7_pocket1_gridbox.json raw/compounds/pcsk9_analog_0*.sdf
+oase docking analyze raw/docking/runs/pcsk9_analog_0*.dock.json
 ```
 
-`Pocket 1` scores `0.68` (passing the `0.50` druggability threshold), and analog `PCSK9-A02` achieves the strongest predicted docking score (`-9.4 kcal/mol`), accompanied by the required caveat `docking.score_is_not_affinity`. At **Gate 2 (Hit Identification)**, the AI program lead approves advancement to multiparameter chemistry optimization while logging the lipophilicity liability for investigation.
+`Pocket 1` scores `0.68` (passing the `0.50` druggability threshold, whereas the flat `EGF-A` surface scores `0.24`), and analog `pcsk9_analog_02` achieves the strongest predicted docking score (`-9.4 kcal/mol`, `2.34 Å` clearance), accompanied by the required caveat `docking.score_is_not_affinity`. At **Gate 2 (Hit Identification)**, the AI program lead approves advancement to multiparameter chemistry optimization while logging the lipophilicity and basic-amine cardiac safety liability (`L-002`) for investigation.
 
 ---
 
 ### Step 4 & Lab Gate: Multiparameter Chemistry, ADMET Filtering, and Lab Handoff (`WO-006`)
 
-In Step 4, the Medicinal Chemist runs `RDKit` descriptor profiling and rule-based ADMET structural alert screening across the docked analogs:
+In Step 4, the Medicinal Chemist runs `RDKit` descriptor profiling, `BRICS` matched-molecular-pair analysis, `ASKCOS` retrosynthesis, and rule-based ADMET structural alert screening across the docked analogs:
 
 ```bash
-# Evaluate physicochemical properties and ADMET structural alerts offline
-oase admet analyze raw/admet/pcsk9_ic001_series_admet.json
+# Evaluate physicochemical properties, matched molecular pairs, and ADMET structural alerts offline
+oase mmp analyze raw/mmp/pcsk9_ic001_series.mmp.json
+oase admet analyze raw/admet/pcsk9_ic001_series.admet.json
 ```
 
-The analysis file reveals a classic medicinal chemistry trade-off:
-- **`PCSK9-A02`** (the strongest docker at `-9.4 kcal/mol`) has high lipophilicity (`cLogP = 5.09`) and triggers three liabilities, including the Aronov (2005) **hERG potassium-channel cardiac safety alert** (`has_basic_nitrogen and logp > 3.7 and aromatic_rings >= 2`).
-- **`PCSK9-A03` (`OASE-PCSK9-014`)**, a polar oxadiazole bioisostere with a slightly weaker docking score (`-8.9 kcal/mol`), lowers `cLogP` to `3.01` (`MW = 338.3 Da`, `TPSA = 101.0 Å²`) and passes every physicochemical and ADMET filter with **zero critical liabilities**.
+The analysis files reveal a classic medicinal chemistry trade-off:
+- **Unoptimized high-scoring dockers** (`pcsk9_analog_02` at `cLogP = 4.8` in the seeded series, and `PCSK9-A02` at `cLogP = 5.09` in live single-compound CLI screening) exceed the lipophilicity cutoff (`max_clogp = 3.5`) and trigger cardiac-safety (**Aronov hERG**) and metabolic liabilities.
+- **Optimized polar heterocycle `OASE-PCSK9-014`** (2-methoxypyrimidine / polar oxadiazole bioisostere `PCSK9-A03`) lowers `cLogP` to `3.1` (`3.01` in live single-SMILES screening), raises lipophilic efficiency `LipE` to `5.2` (`MW = 462.5 Da`, `TPSA = 88.4 Å²`, `4`-step convergent synthesis), and passes every physicochemical and ADMET filter with **zero structural alerts**.
 
-At **Gate 3 (Lead Optimization)**, the AI program lead selects `PCSK9-A03` (`OASE-PCSK9-014`), marks the cardiac liability mitigated in `program-state/liability-tracker.md`, and triggers the **Lab Gate**—preparing the synthesis and *in vivo* pharmacokinetic handoff package while the agents pause cleanly on disk until experimental rat (`F = 54%`) and dog (`F = 61%`) bioavailability data return.
+At **Gate 3 (Lead Optimization)**, the AI program lead selects `OASE-PCSK9-014`, marks cardiac/lipophilicity liability `L-002` mitigated in `program-state/liability-tracker.md`, and advances to the **Lab Gate**—where the human program lead signs the synthesis and *in vivo* pharmacokinetic handoff work order, and the agents pause cleanly on disk until experimental rat (`F = 54%`) and dog (`F = 61%`) oral bioavailability files return.
 
 ---
 
 ### Steps 5 & 6: Human Dose Projection, Evidence Portal Compilation, and Validation Checks (`WO-007`–`WO-008`)
 
-Once the animal PK data files return from the lab gate, the DMPK and Regulatory leads project human oral dosing (`40 mg QD`, `F = 52%`, `t1/2 = 14.8 h`) and compile the candidate nomination dossier and 30-page static HTML evidence portal:
+Once the animal PK data files return from the lab gate, the DMPK and Regulatory leads project human oral dosing (`40 mg QD`, `F = 52%`, `t1/2 = 14.8 h`), benchmark `84` clinical trials (`0` approved oral non-peptide small molecules), and compile the candidate nomination dossier and static HTML evidence portal:
 
 ```bash
 # Grade returned PK data and project human once-daily oral dose
 oase pk analyze raw/pk/oase_pcsk9_014_scaled_pk.json
 
 # Run all 10 deterministic validation checks across WO-001..WO-008
+oase validate check WO-008
 oase doctor
 
 # Compile the static HTML Evidence Portal and interactive chapter replay
@@ -184,9 +188,9 @@ oase site build
 oase site export
 ```
 
-At **Gate 4 (Candidate Nomination)**, both the AI program lead and the human program lead co-sign the nomination of `OASE-PCSK9-014` (`PCSK9-A03`).
+At **Gate 4 (Candidate Nomination)**, both the AI program lead (`science-program-lead`) and the human program lead co-sign the nomination of `OASE-PCSK9-014`.
 
-Finally, in **Step 6**, the Program Lead runs the four validation test cases—verifying that `oase validate check` blocks work-order closure when a required caveat is removed (`REL-001`), when a cited number is altered beyond `±1%` (`CIT-003`), or when a raw data file is modified (`PROV-002`), while permitting an explicitly logged reviewer override with full actor and rationale attribution in `program-state/decision-log.md`.
+Finally, in **Step 6**, the Program Lead runs the four governance test cases—verifying that `oase validate check` blocks work-order closure when a required caveat is removed (`REL-001`), when a cited number is altered beyond `±1%` (`CIT-003`), or when a raw data file is modified (`PROV-002`), while permitting an explicitly logged reviewer override (`oase workorder override`) with full actor and rationale attribution in `program-state/decision-log.md`.
 
 ---
 
